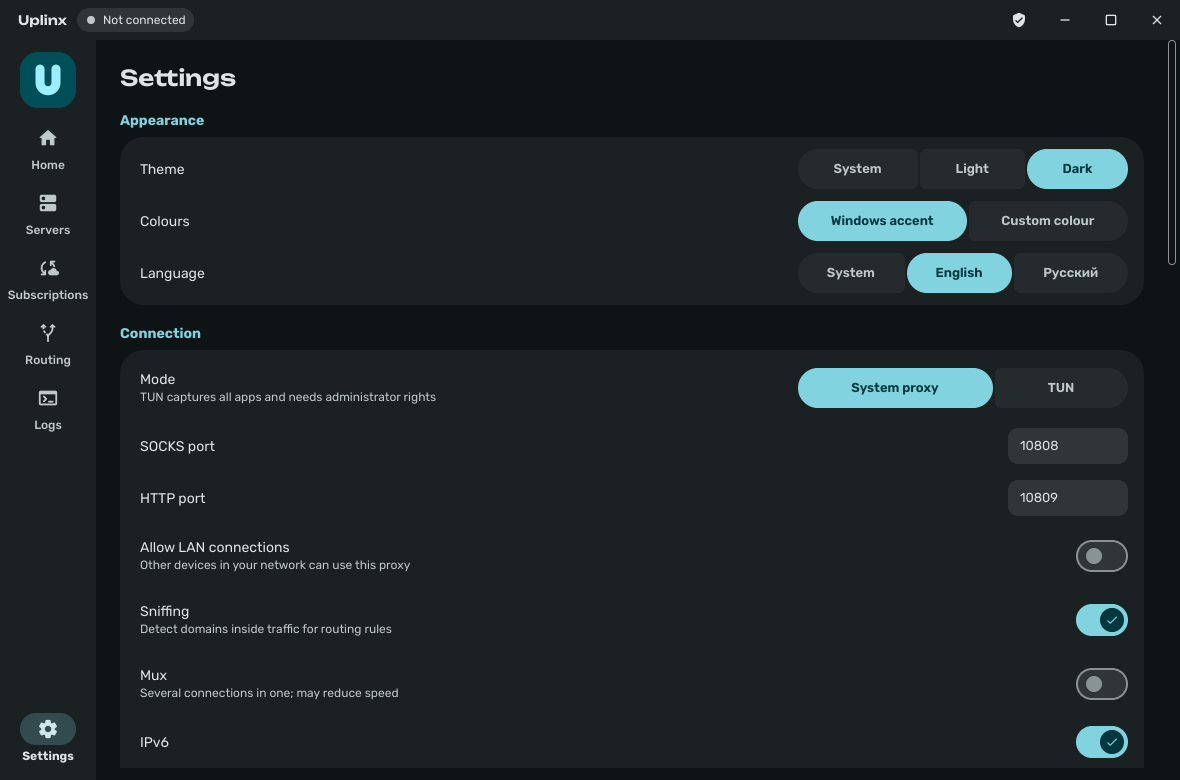
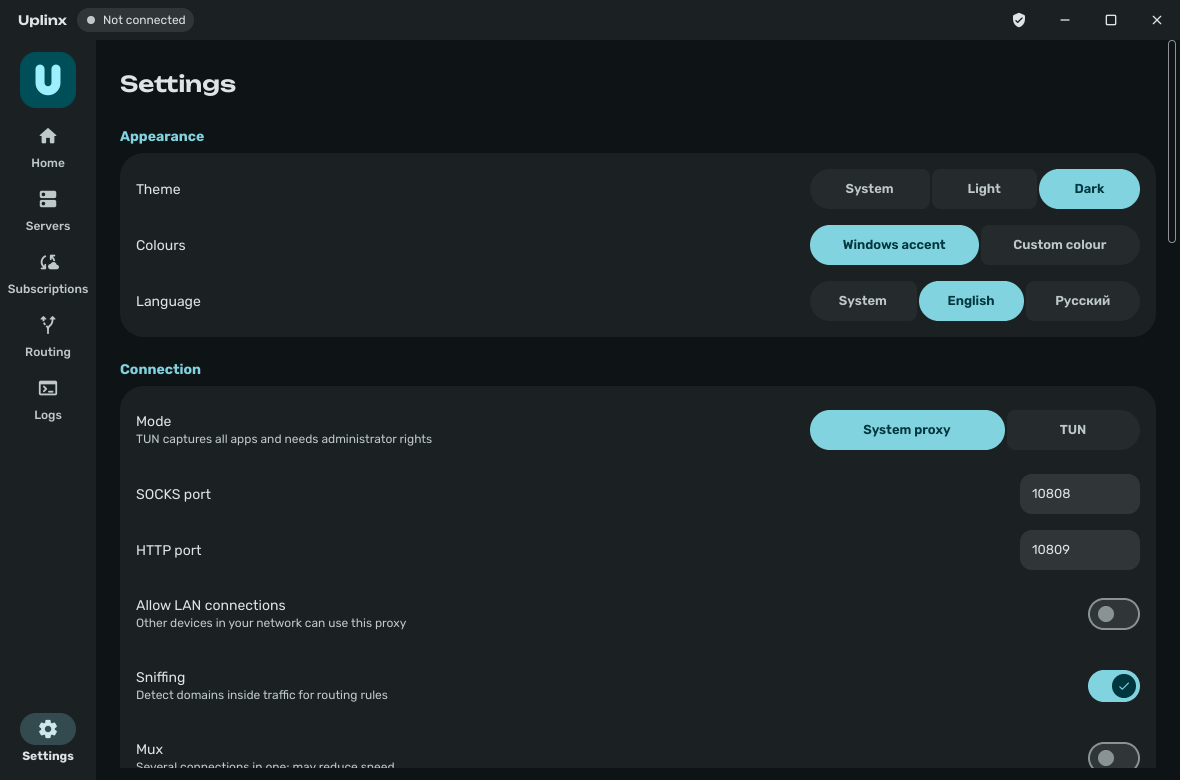
2.0.2: design review — one scale for corners and spacing

diff --git a/RELEASE_NOTES.md b/RELEASE_NOTES.md
@@ -1,10 +1,14 @@
-## Uplinx 2.0.1
+## Uplinx 2.0.2 — design review
 
-- The real Uplinx logo — the flat, symmetric "u" from the app icon — now sits centred in its container at the top of the side panel, in your theme's colours.
-- **Add servers** button on the home screen (it used to be the "+" at the top of the side panel).
-- The title bar shows only the name and the connection status.
+The whole interface now follows one Material 3 Expressive scale:
+
+- **One set of corners everywhere:** 8 (chips, tags), 12 (inputs, menu items), 16 (list items, menus, banners), 24 (cards and widgets), 28 (dialogs), and pills for buttons and badges.
+- **One set of spacings:** 4 / 8 / 12 / 16 / 24. Every screen has the same 24 px margins, and right edges line up on every page; scroll bars no longer cover the content.
+- Home: the connect widget keeps its text well inside the card; **Add servers** and **Edit** sit flush with the widget grid.
+- Settings rows use standard heights (56 / 72 px); routing rules, split-tunnel apps and server rows are evenly spaced, with controls centred.
+- Screen titles sit on the same line on every page; log filters are aligned with the buttons next to them; the pin icon looks right.
 
 **Downloads**
-- `Uplinx-2.0.1.msi` — installs for the current user, no admin rights needed.
-- `Uplinx-2.0.1-portable-win64.zip` — unpack anywhere and run `Uplinx.exe`.
+- `Uplinx-2.0.2.msi` — installs for the current user, no admin rights needed.
+- `Uplinx-2.0.2-portable-win64.zip` — unpack anywhere and run `Uplinx.exe`.
 - `SHA256SUMS.txt` — checksums.
